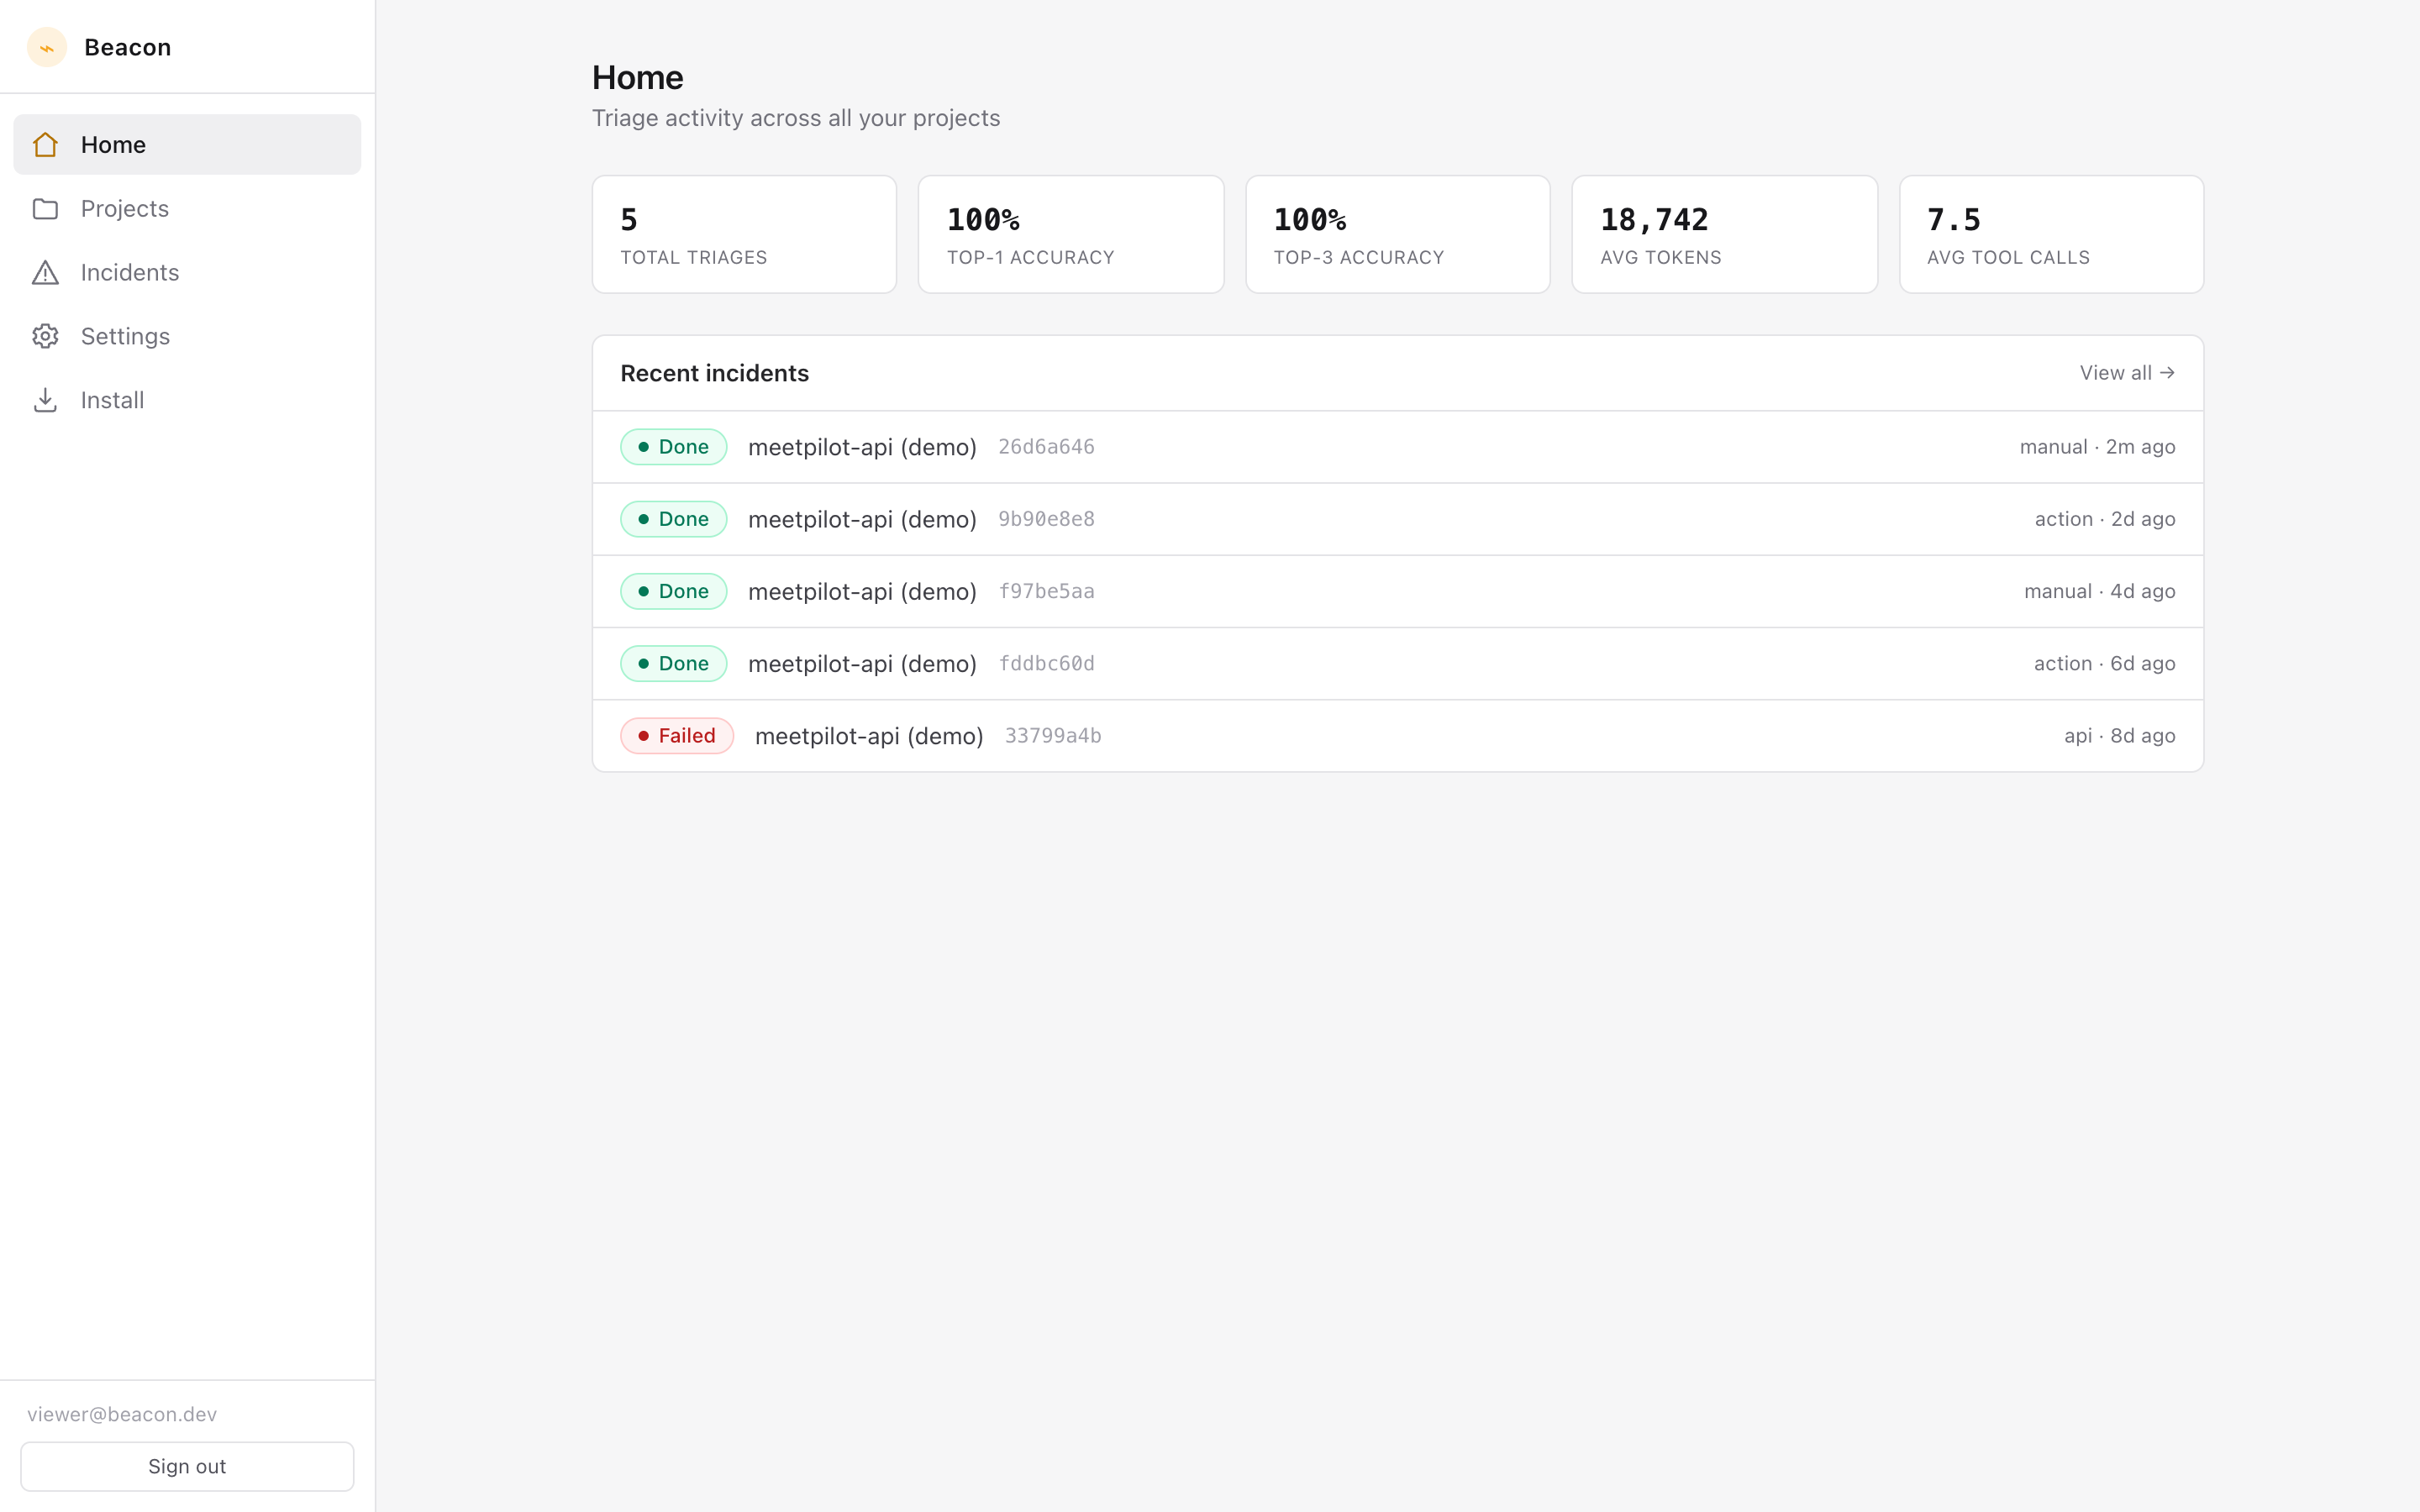
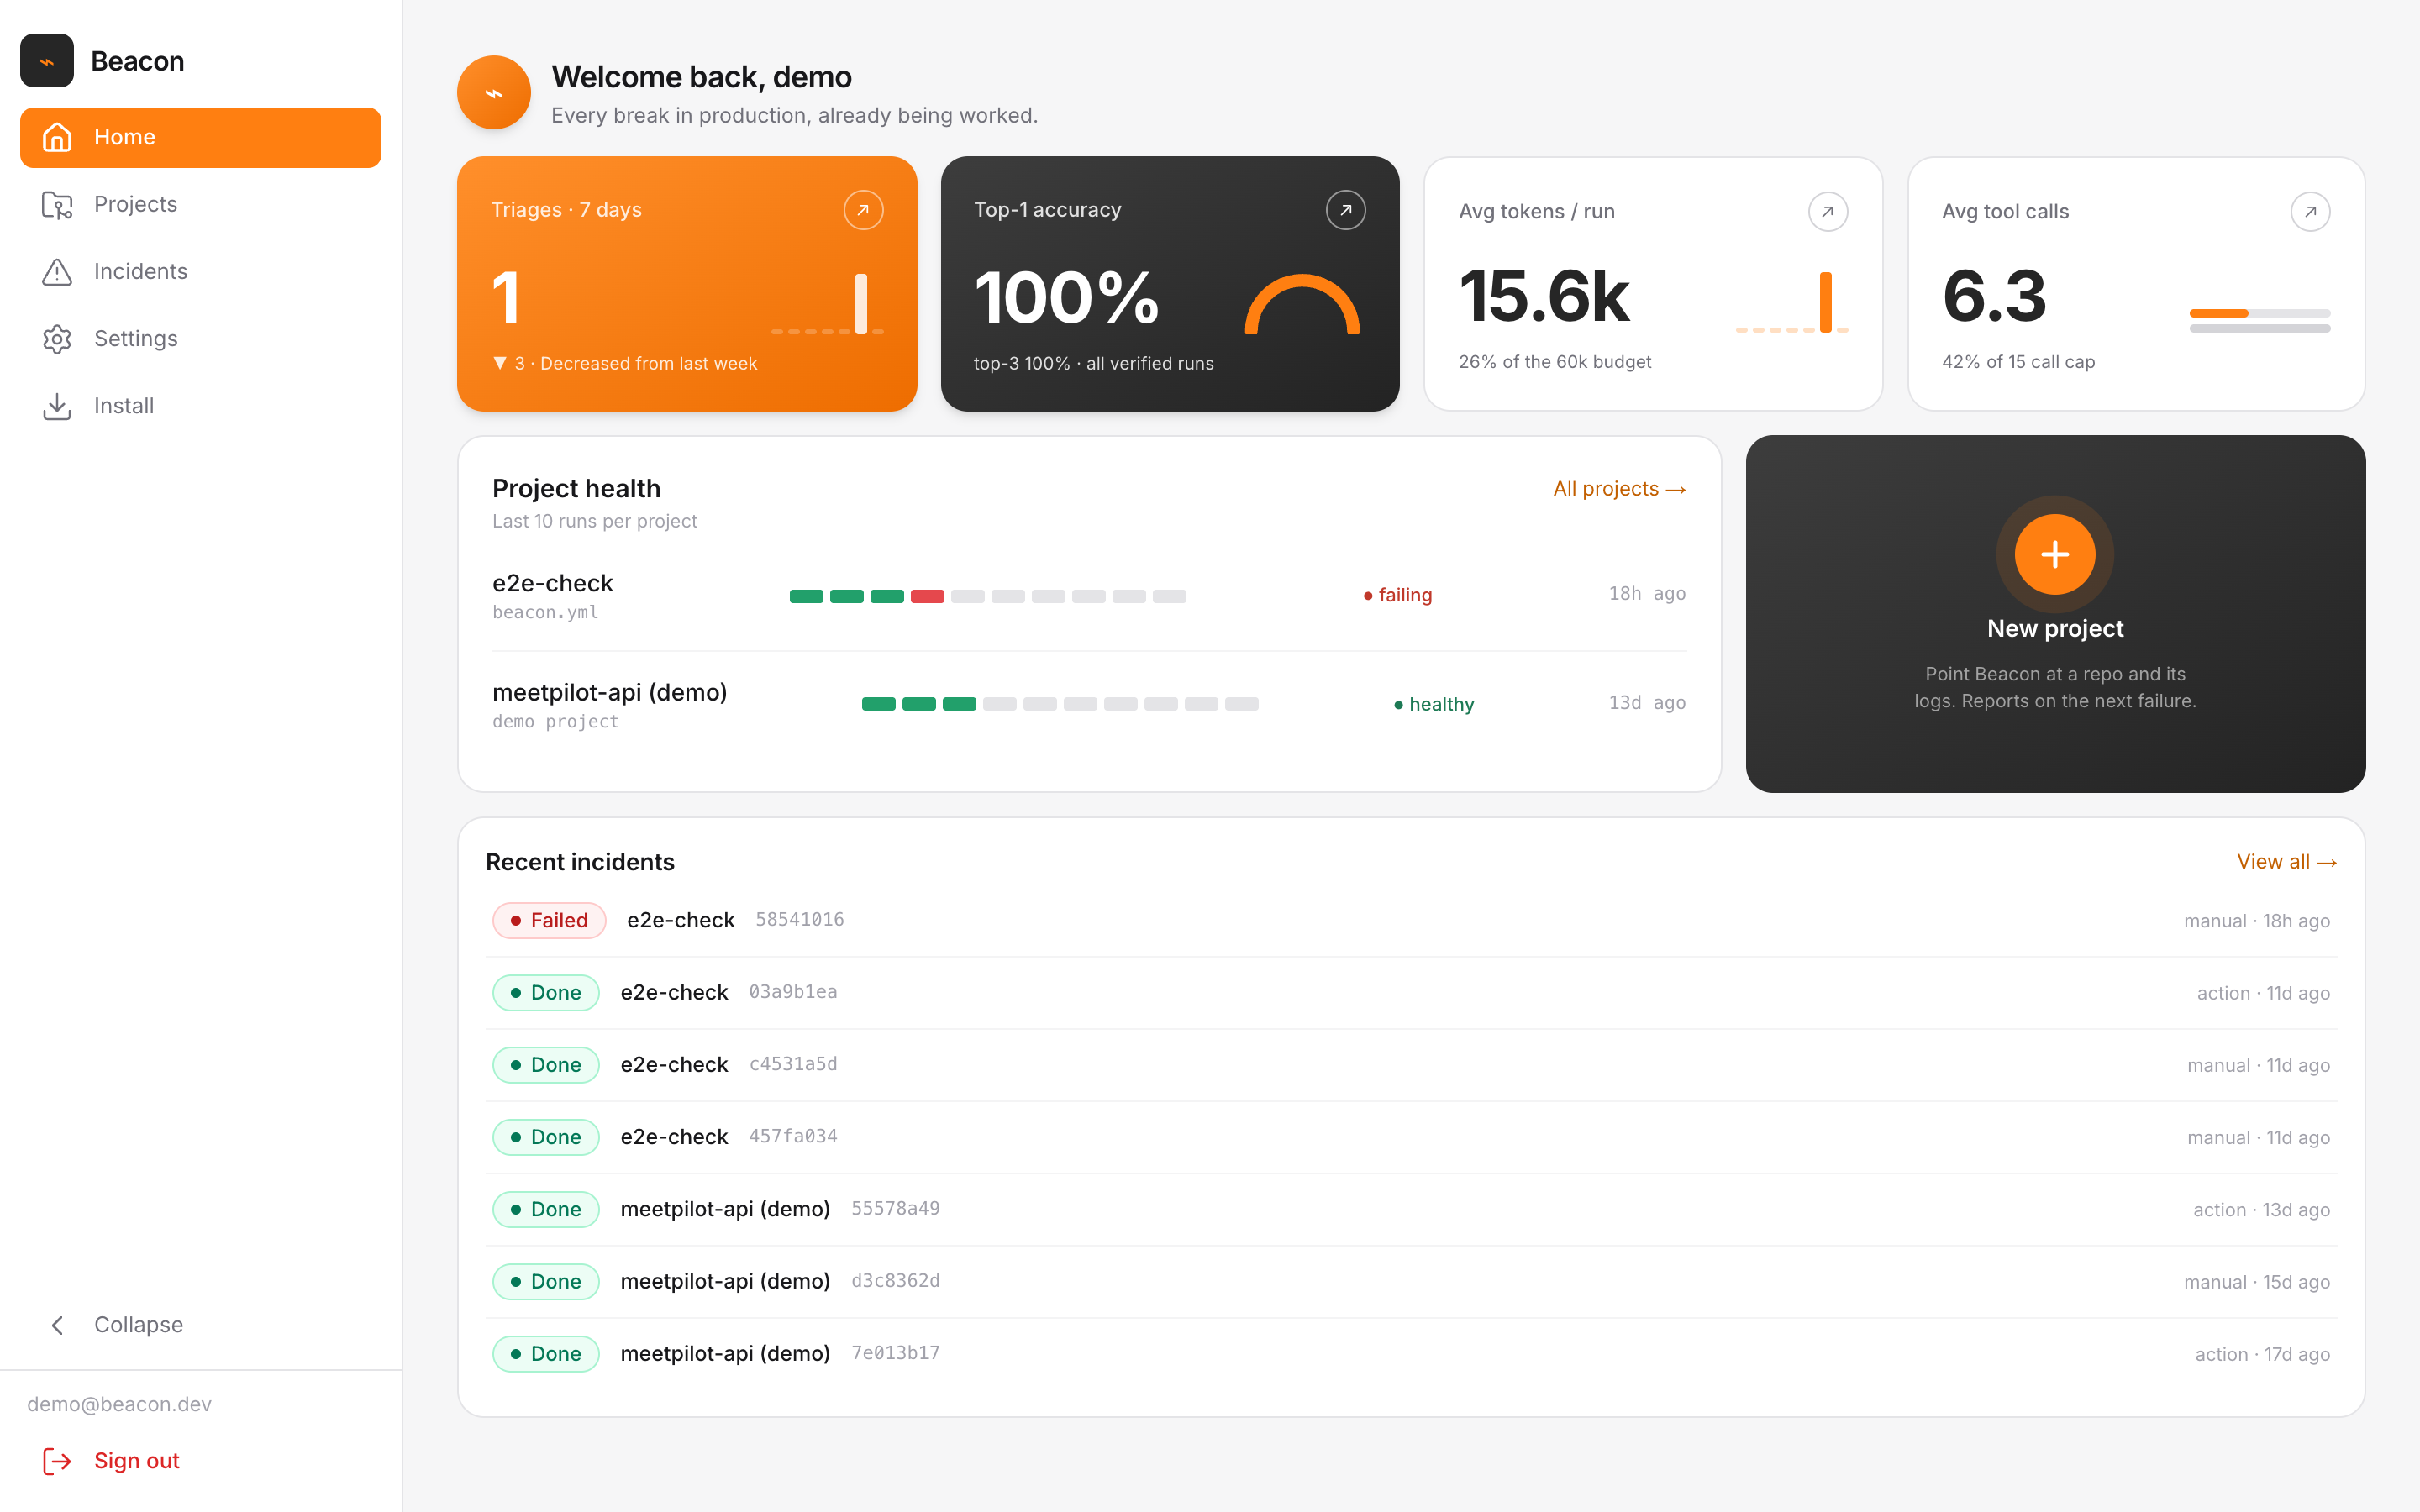
docs: refresh README screenshots to the redesigned dashboard

diff --git a/README.md b/README.md
@@ -62,12 +62,15 @@ Then walk the demo path:
 
 1. Open <http://localhost:3000> and use **Dev sign-in** (enabled by
    `AUTH_DEV_MODE=true`; any email works, no GitHub account needed).
-2. You land on **Home** with a seeded demo project: finished incidents,
-   accuracy stats, and one failed run, so no screen is ever empty.
+2. You land on **Home** with a seeded demo project: triage and accuracy stat
+   tiles, per-project run health, and recent incidents, so no screen is ever
+   empty.
 3. Under **Projects**, create a project, open it, then **Trigger incident**.
 4. Watch the incident page poll live from *Queued* to *Running* to *Done*. The
-   report renders with verdicts (accept/reject badges, confidence bars, evidence
-   chips) and the hypothesis set the agent worked from.
+   report renders as a readable document: the verdict headline with a confidence
+   bar, cited evidence lines, what was ruled out and why, expandable hypotheses
+   with their accept/reject checks, and the tool-call and token budget the run
+   actually used.
 
 ![Home](.github/assets/home.png)
 